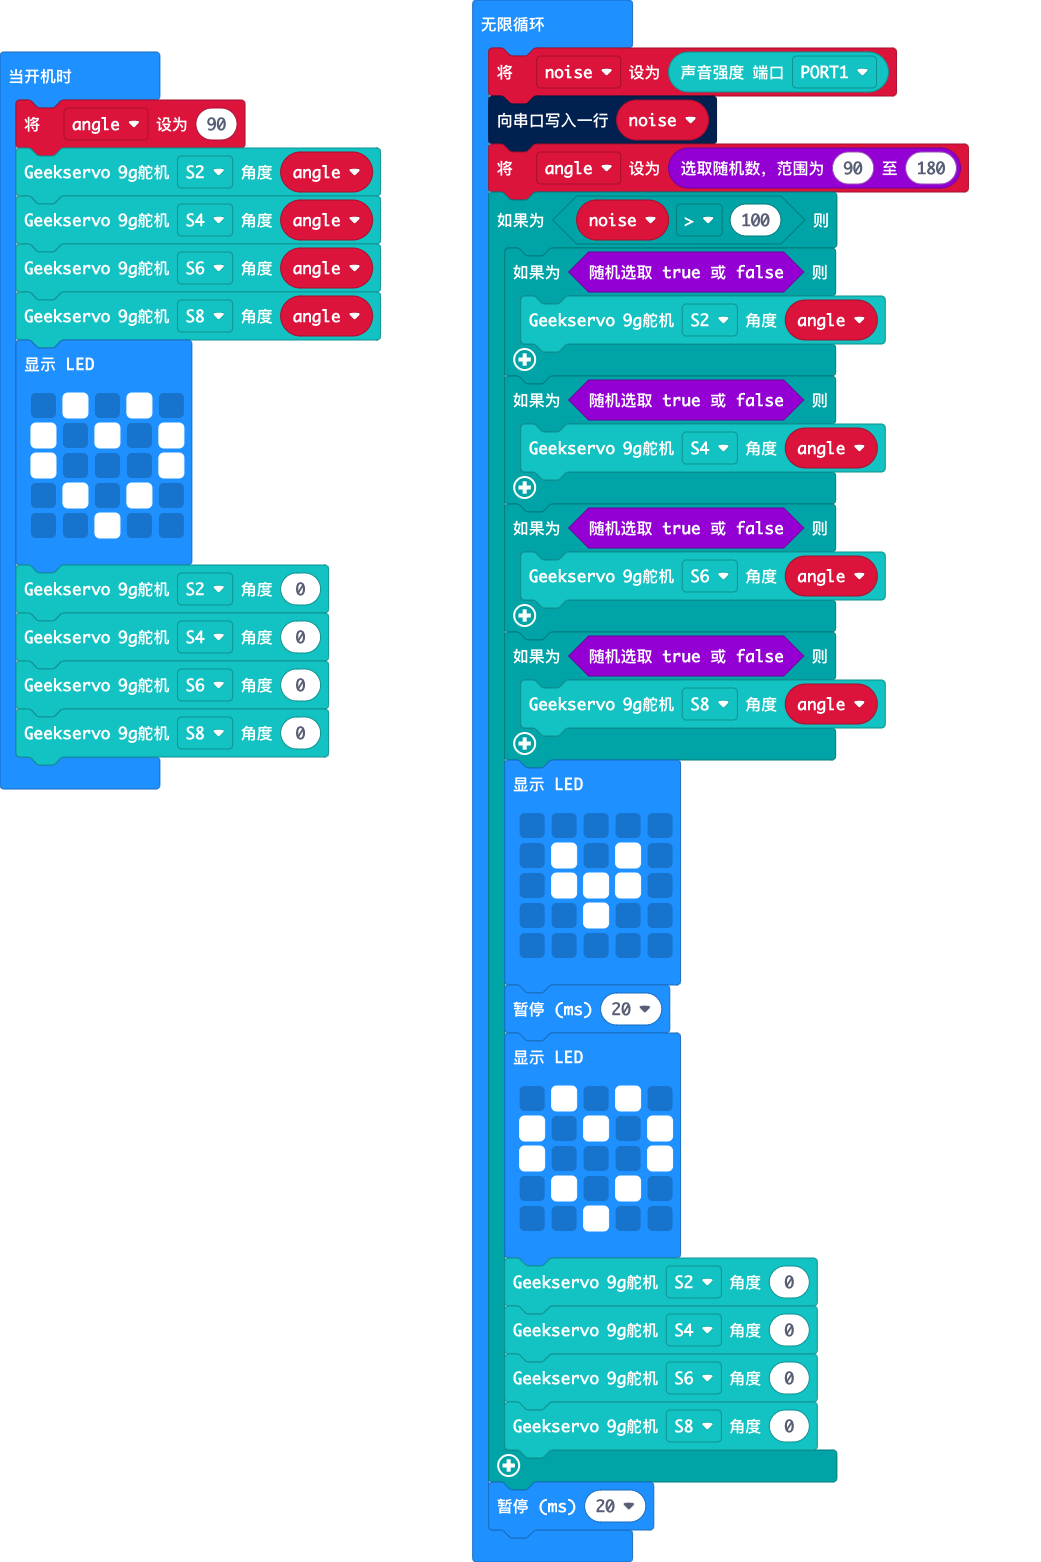
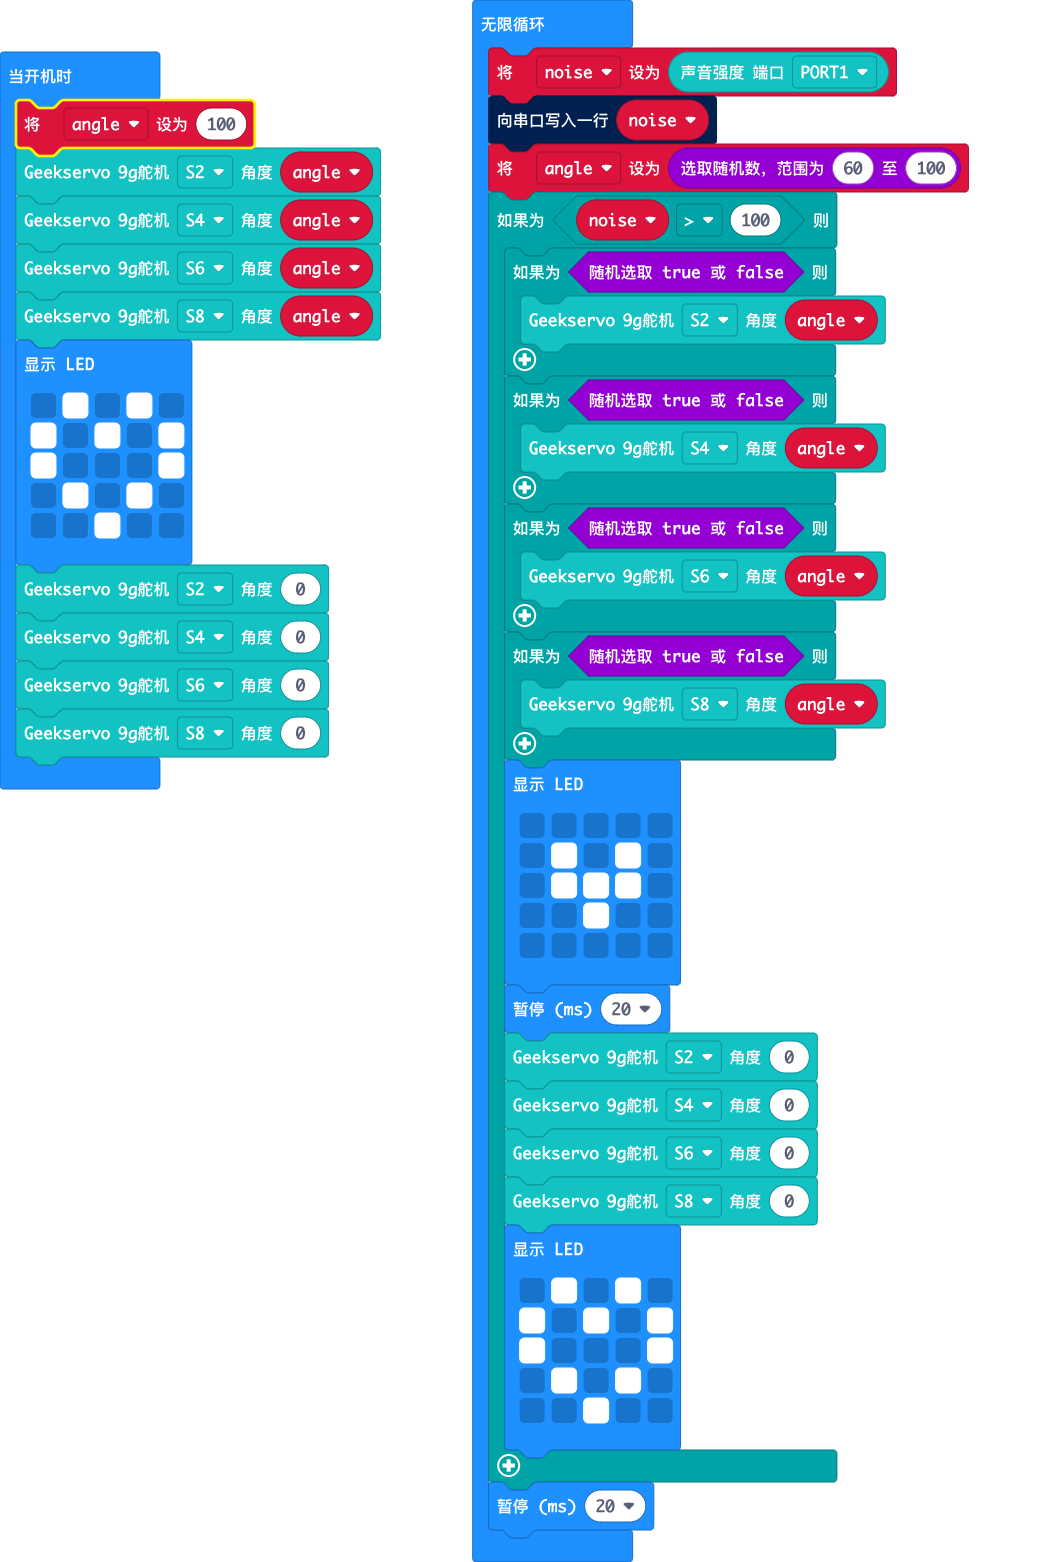
reduce angle

Changed region(s): [[0.4611, 0.6453, 0.7992, 0.9526], [0.1844, 0.0615, 0.2459, 0.0922], [0.0, 0.0615, 0.0307, 0.0922]]

diff --git a/main.ts b/main.ts
@@ -1,5 +1,5 @@
 let noise = 0
-let angle = 90
+let angle = 100
 powerbrick.Servo(powerbrick.Servos.S2, angle)
 powerbrick.Servo(powerbrick.Servos.S4, angle)
 powerbrick.Servo(powerbrick.Servos.S6, angle)
@@ -18,7 +18,7 @@ powerbrick.Servo(powerbrick.Servos.S8, 0)
 basic.forever(function () {
     noise = powerbrick.SoundSensor(powerbrick.PortsA.PORT1)
     serial.writeLine("" + (noise))
-    angle = randint(90, 180)
+    angle = randint(60, 100)
     if (noise > 100) {
         if (Math.randomBoolean()) {
             powerbrick.Servo(powerbrick.Servos.S2, angle)
@@ -40,6 +40,10 @@ basic.forever(function () {
             . . . . .
             `)
         basic.pause(20)
+        powerbrick.Servo(powerbrick.Servos.S2, 0)
+        powerbrick.Servo(powerbrick.Servos.S4, 0)
+        powerbrick.Servo(powerbrick.Servos.S6, 0)
+        powerbrick.Servo(powerbrick.Servos.S8, 0)
         basic.showLeds(`
             . # . # .
             # . # . #
@@ -47,10 +51,6 @@ basic.forever(function () {
             . # . # .
             . . # . .
             `)
-        powerbrick.Servo(powerbrick.Servos.S2, 0)
-        powerbrick.Servo(powerbrick.Servos.S4, 0)
-        powerbrick.Servo(powerbrick.Servos.S6, 0)
-        powerbrick.Servo(powerbrick.Servos.S8, 0)
     }
     basic.pause(20)
 })
